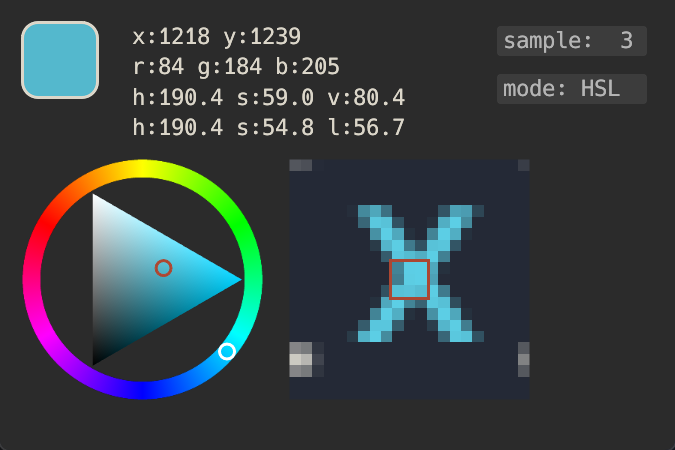
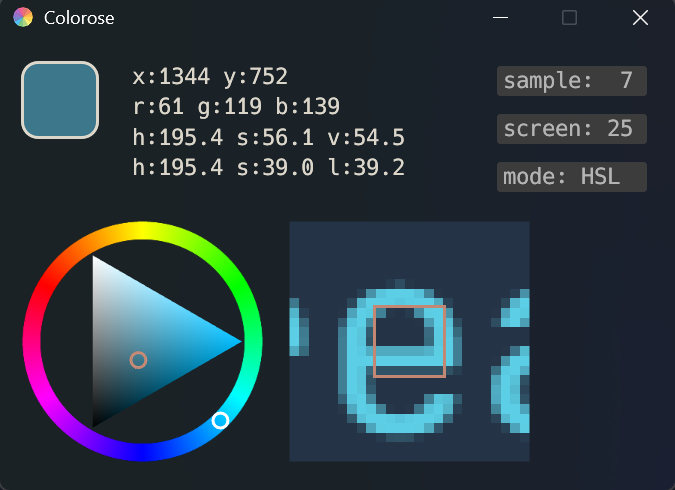
update: 增加修改显示鼠标附近像素的范围的功能

diff --git a/src/app/app.rs b/src/app/app.rs
@@ -21,6 +21,7 @@ pub struct App {
     pub state: Arc<Mutex<AppState>>,
     pub wheel_texture: Option<TextureHandle>,
     pub screen_texture: Option<TextureHandle>,
+    pub current_screen_tex_size: usize,
 }
 
 // init
@@ -85,6 +86,7 @@ impl App {
             state,
             wheel_texture: None,
             screen_texture: None,
+            current_screen_tex_size: 0,
         }
     }
 
@@ -245,6 +247,38 @@ impl eframe::App for App {
                                 .show(ui, |ui| {
                                     ui.set_width(120.0);
                                     ui.set_height(25.0);
+                                    let screen_tex_size = state.screen_tex_size;
+                                    let screen_tex_size_btn =
+                                        Button::new(format!("screen: {:2}", screen_tex_size))
+                                            .min_size(Vec2::new(100.0, 20.0));
+                                    let screen_tex_size_btn_response = ui.add(screen_tex_size_btn);
+                                    if screen_tex_size_btn_response
+                                        .clicked_by(PointerButton::Primary)
+                                    {
+                                        if screen_tex_size < 25 {
+                                            state.screen_tex_size = screen_tex_size + 2;
+                                        }
+                                    }
+                                    if screen_tex_size_btn_response
+                                        .clicked_by(PointerButton::Secondary)
+                                    {
+                                        if screen_tex_size > 1 {
+                                            state.screen_tex_size = screen_tex_size - 2;
+                                        }
+                                    }
+                                });
+                                Frame {
+                                    inner_margin: Margin {
+                                        left: 10,
+                                        right: 10,
+                                        top: 2,
+                                        bottom: 2,
+                                    },
+                                    ..Default::default()
+                                }
+                                .show(ui, |ui| {
+                                    ui.set_width(120.0);
+                                    ui.set_height(25.0);
                                     let wheel_mode = state.wheel_mode;
                                     let wheel_mode_btn =
                                         Button::new(format!("mode: {:?}", wheel_mode))
@@ -283,7 +317,8 @@ impl eframe::App for App {
                         state.screen_tex_size,
                         state.screen_colors.iter().map(|c| c.to_color32()).collect(),
                         color_revert,
-                        state.screen_sample_size,
+                        &mut state.screen_sample_size,
+                        &mut self.current_screen_tex_size,
                     );
                 });
             });

diff --git a/src/ui/screen.rs b/src/ui/screen.rs
@@ -7,8 +7,11 @@ pub fn show_screen_img(
     tex_size: usize,
     pixels: Vec<Color32>,
     color_revert: Color32,
-    screen_sample_size: usize,
+    screen_sample_size: &mut usize,
+    current_tex_size: &mut usize,
 ) {
+    let current_screen_sample_size = *screen_sample_size;
+
     if tex_size * tex_size == pixels.len() {
         *texture = Some(ui.ctx().load_texture(
             "screen_image",
@@ -19,6 +22,10 @@ pub fn show_screen_img(
             },
             TextureOptions::NEAREST,
         ));
+        if current_screen_sample_size > tex_size {
+            *screen_sample_size = tex_size;
+        }
+        *current_tex_size = tex_size;
     }
 
     if let Some(tex) = texture {
@@ -36,11 +43,11 @@ pub fn show_screen_img(
                 Color32::WHITE,
             );
 
-            let half_sample_size = (screen_sample_size as f32 / 2.0).floor();
-            let min_factor =
-                ((tex_size as f32 / 2.0).floor() - half_sample_size) / (tex_size as f32);
-            let max_factor =
-                ((tex_size as f32 / 2.0).floor() + half_sample_size + 1.0) / (tex_size as f32);
+            let half_tex_size = (tex_size as f32 / 2.0).floor();
+            let half_sample_size = (current_screen_sample_size as f32 / 2.0).floor();
+            let half_sample_size = half_sample_size.min(half_tex_size);
+            let min_factor = (half_tex_size - half_sample_size) / (tex_size as f32);
+            let max_factor = (half_tex_size + half_sample_size + 1.0) / (tex_size as f32);
             let min_x = (rect.max.x - rect.min.x) * min_factor + rect.min.x;
             let max_x = (rect.max.x - rect.min.x) * max_factor + rect.min.x;
             let min_y = (rect.max.y - rect.min.y) * min_factor + rect.min.y;

diff --git a/src/service/cursor_color.rs b/src/service/cursor_color.rs
@@ -81,6 +81,7 @@ pub fn get_screen_data(
                 .or(Err(GetCursorColorError::UnableGetBuffer))?;
 
             let mut sample_colors = vec![];
+            let half_sample_size = half_sample_size.min(half_size as i32);
             for dx in -half_sample_size..=half_sample_size {
                 for dy in -half_sample_size..=half_sample_size {
                     let x = (half_size as i32 + dx) as u32;

diff --git a/README.md b/README.md
@@ -9,13 +9,17 @@
 
 点击 sample 按钮可以修改采样的范围，左键右键分别是增加和减少。
 
+点击 screen 按钮可以修改显示鼠标附近像素的范围，左键右键分别是增加和减少。
+
+点击 mode 按钮可以修改色轮的显示模式，分别是HSL和HSV。
+
 ## TODO
 
 - [x] 支持范围取色（范围取平均）
 - [x] 显示 hsl
 - [x] 增加颜色显示
 - [x] 支持色轮在 hsv 和 hsl 切换
-- [ ] 可调节显示的附近像素范围
+- [x] 可调节显示的附近像素范围
 - [ ] 复制颜色数据按钮
 - [x] 亚克力模糊背景(不重要)
 - [ ] 范围取色支持圆形
